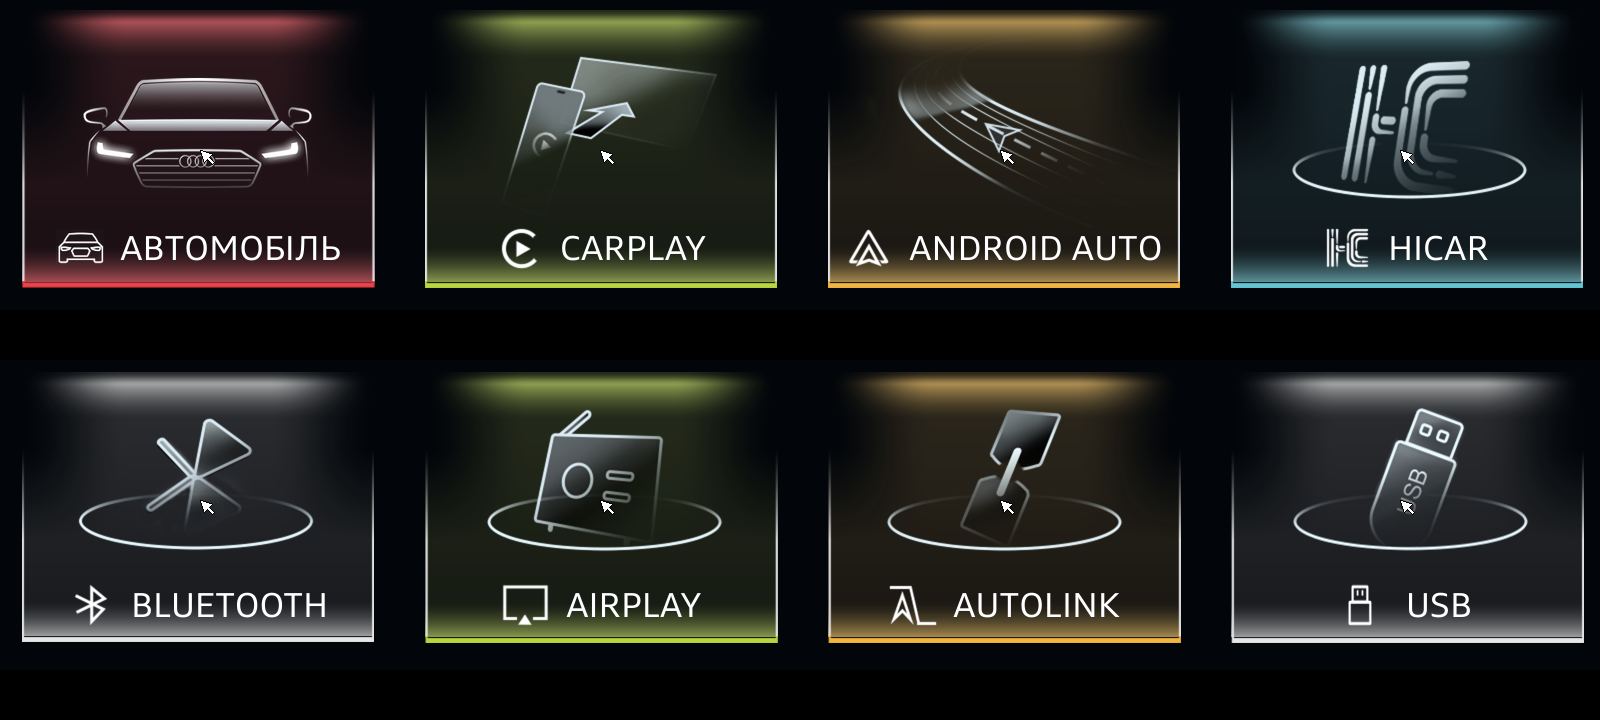
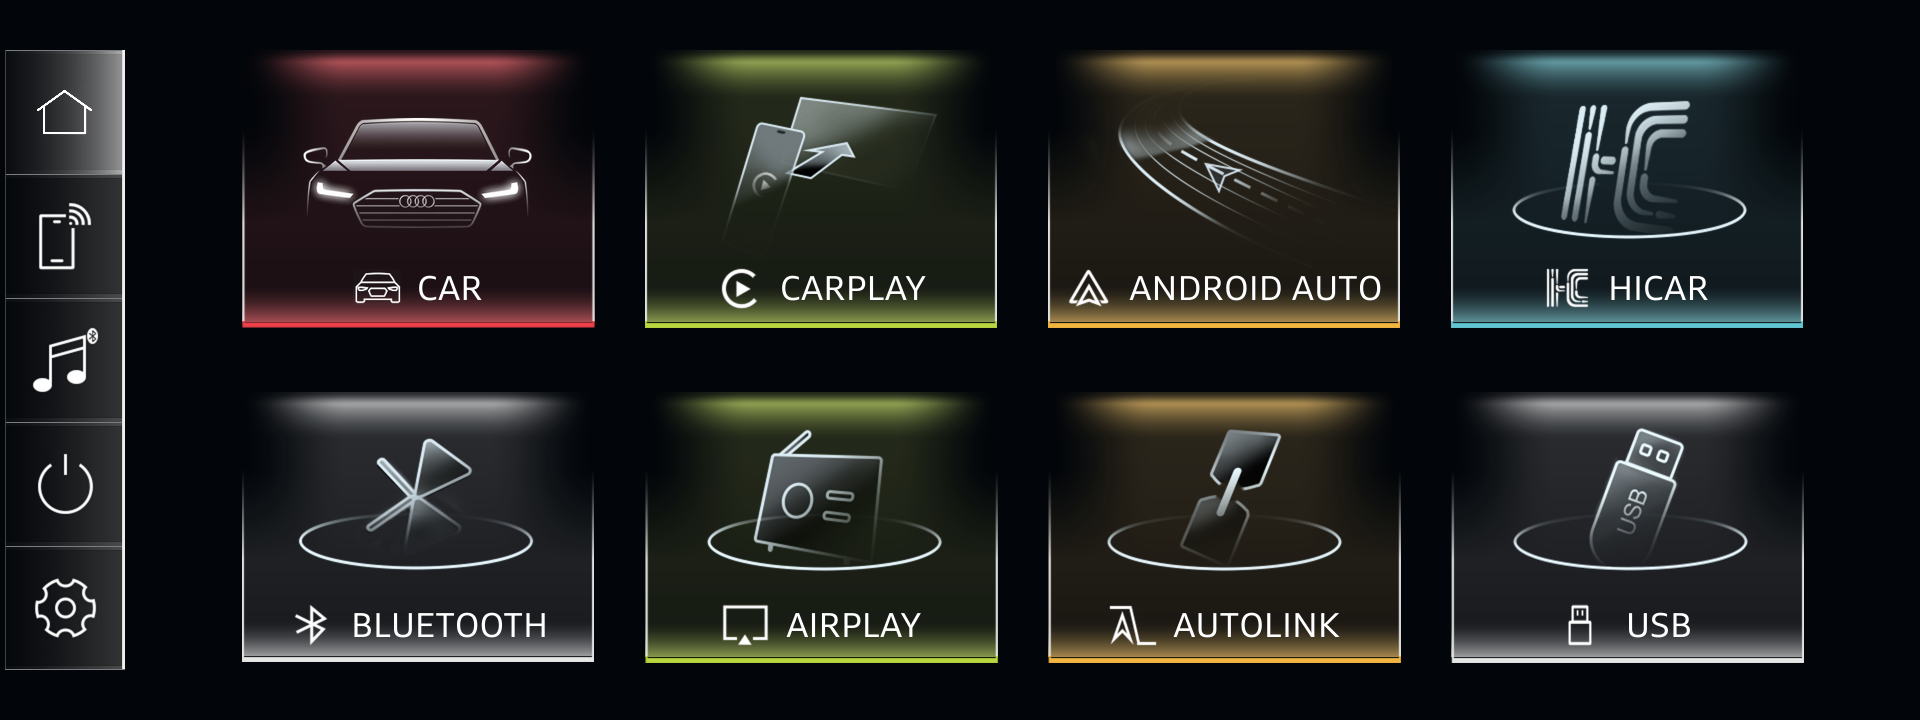
Update screenshots: latest menu, English, no cursor

diff --git a/README.md b/README.md
@@ -24,25 +24,28 @@ Screenshots come from an emulator that runs the real vendor Qt libraries and Lau
 Fonts, layout and colours are the packaged assets; the touchscreen and PWM backend are absent in
 the emulator.
 
-| Stock home | Modified home (Ukrainian locale) |
+| Stock home | Modified home |
 | --- | --- |
-| ![stock](screenshots/01-home-stock.png) | ![modified](screenshots/02-home-redesigned-uk.png) |
+| ![stock](screenshots/01-home-stock.png) | ![modified](screenshots/02-home-redesigned.png) |
 
 Pressed state of every tile (two static states only, like stock; no animation):
 
 ![pressed tiles](screenshots/03-tiles-pressed.png)
 
-Settings pages, Ukrainian and English:
+Settings pages (Setup, Display, Wi-Fi, Audio):
 
-![settings uk](screenshots/04-settings-pages-uk.png)
-![settings en](screenshots/05-settings-pages-en.png)
+![settings](screenshots/04-settings-pages-en.png)
+
+Ukrainian is added as a full UI language (shown once here, the System page with the language entry):
+
+![ukrainian](screenshots/06-ukrainian-ui.png)
 
 ## Automatic brightness (new feature)
 
 The stock screen has only manual Day and Night dimmer sliders. This firmware adds a separate
 **Settings → Display → Automatic brightness** submenu. The stock sliders stay untouched.
 
-![auto brightness](screenshots/06-auto-brightness.png)
+![auto brightness](screenshots/05-auto-brightness.png)
 
 How it works:
 
